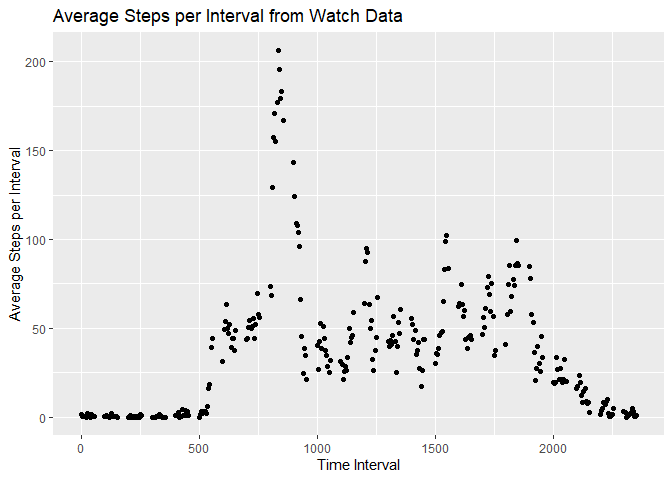
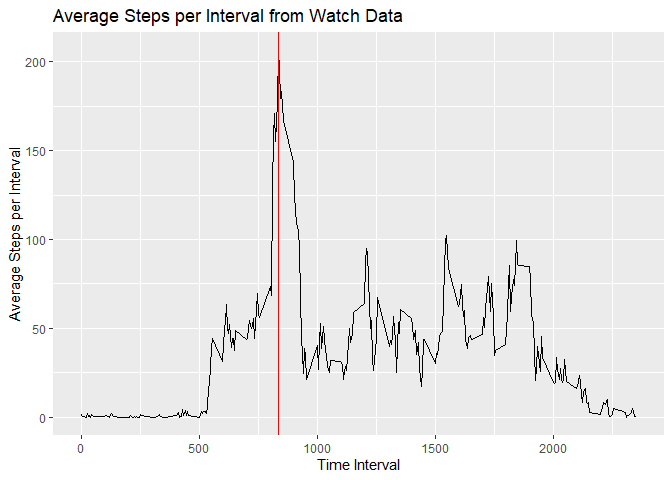
all works - ready to submit

diff --git a/PA1_template.html b/PA1_template.html
@@ -400,12 +400,12 @@ str(activity)</code></pre>
   #remove NA
   stepdata &lt;- activity[!is.na(activity$steps),]
   #sum step data by day
-     newstep &lt;- aggregate(steps ~ date, data = stepdata, sum)
-     newstepmean &lt;- sprintf(&quot;%.4f&quot;,mean(newstep$steps))
-     newstepmedian &lt;- median(newstep$steps)
+     newstepday &lt;- aggregate(steps ~ date, data = stepdata, sum)
+     newstepmean &lt;- sprintf(&quot;%.4f&quot;,mean(newstepday$steps))
+     newstepmedian &lt;- median(newstepday$steps)
      
      #plot
-     ggplot(data = newstep, aes(x = steps)) + geom_histogram() +
+     ggplot(data = newstepday, aes(x = steps)) + geom_histogram() +
        labs(title = &quot;Distribution of Total Steps per Day from Watch Data&quot;) +
        xlab(&quot;Total Steps per Day&quot;) +
        ylab(&quot;Frequency of step count&quot;)</code></pre>
@@ -421,29 +421,75 @@ str(activity)</code></pre>
 and the average number of steps taken averaged across all days (y-axis).
 Demonstrate which interval, on average across all days in the dataset,
 contains the maximum number of steps.</p>
-<pre class="r"><code>  #load data into function
-  activity &lt;- read.csv(&quot;~\\R\\datasciencecoursera\\RepData_PeerAssessment1\\activity.csv&quot;)
-  #remove NA
-  stepdata &lt;- activity[!is.na(activity$steps),]
-  #sum step data by day
-  newstep &lt;- aggregate(steps ~ interval, data = stepdata, mean)
-  maxsteps &lt;- newstep$interval[newstep$steps == max(newstep$steps)]
+<pre class="r"><code>  #sum step data by day
+  meanstepinterval &lt;- aggregate(steps ~ interval, data = stepdata, mean)
+ 
+  maxsteps &lt;- meanstepinterval$interval[meanstepinterval$steps == max(meanstepinterval$steps)]
   
-  #plot
-  ggplot(data = newstep) + geom_point(mapping= aes(x = interval, y = steps)) +
+#  plot(meanstepinterval$interval,meanstepinterval$steps, type = &quot;l&quot;, main = &quot;Average Steps per Interval Through Day&quot;, 
+##     xlab = &quot;Interval&quot;, ylab = &quot;Average Step Count&quot;)
+#  abline(v = maxsteps, col = &quot;red&quot;, lty = 4)
+  ggplot(data = meanstepinterval) + geom_line(mapping= aes(x = interval, y = steps)) +
     labs(title = &quot;Average Steps per Interval from Watch Data&quot;) +
     xlab(&quot;Time Interval&quot;) +
-    ylab(&quot;Average Steps per Interval&quot;)</code></pre>
[1 lines of base64/hex data omitted]
+    ylab(&quot;Average Steps per Interval&quot;) +
+    geom_vline(mapping = aes(xintercept = maxsteps), col = &quot;red&quot;)</code></pre>
[1 lines of base64/hex data omitted]
 <p>The time interval where the participant mean step count is the
-highest is 835.</p>
+highest is 835, denoted by the <span class="math inline">\(\color{red}{\text{red}}\)</span> line.</p>
 </div>
 <div id="imputing-missing-values" class="section level2">
 <h2>Imputing missing values</h2>
+<pre class="r"><code>#calculate number of missing values
+  missing_steps &lt;- sum(is.na(activity$steps))
+
+# calculate mean steps for each interval
+  meanstepsperinterval &lt;- activity %&gt;%
+    group_by(interval) %&gt;%
+   summarize(meansteps = mean(steps, na.rm = TRUE))
+ 
+
+  #impute missing data
+  imputesteps &lt;- activity %&gt;%
+    left_join(meanstepsperinterval, by = &quot;interval&quot;) %&gt;%
+    mutate(steps = ifelse(is.na(steps),meansteps, steps)) %&gt;%
+    select(-meansteps)
+  
+  #calculate totals after imputing data  
+  totalstepsall &lt;- imputesteps %&gt;%
+      group_by(date) %&gt;%
+      summarize(totalsteps = sum(steps))
+                 
+  
+  # histogram of imputed data
+       ggplot(data = totalstepsall, aes(x = totalsteps)) + geom_histogram() +
+         labs(title = &quot;Distribution of Total Steps per Day from Watch Data after Imputation&quot;) +
+         xlab(&quot;Total Steps per Day&quot;) +
+         ylab(&quot;Frequency of step count&quot;)</code></pre>
+<pre><code>## `stat_bin()` using `bins = 30`. Pick better value `binwidth`.</code></pre>
[1 lines of base64/hex data omitted]
+<p>There were 2304 missing values in this data set.</p>
 </div>
 <div id="are-there-differences-in-activity-patterns-between-weekdays-and-weekends" class="section level2">
 <h2>Are there differences in activity patterns between weekdays and
 weekends?</h2>
+<pre class="r"><code> # create a new variable for type of day
+  imputesteps$daytype &lt;- ifelse(weekdays(as.Date(imputesteps$date)) %in% c(&quot;Saturday&quot;, &quot;Sunday&quot;), &quot;weekend&quot;, &quot;weekday&quot;)
+ # calculate steps for intervals grouped by daytype and interval
+  avedaysteps &lt;- imputesteps %&gt;%
+      group_by(interval, daytype) %&gt;%
+        summarize(meansteps = mean(steps))</code></pre>
+<pre><code>## `summarise()` has grouped output by &#39;interval&#39;. You can override using the
+## `.groups` argument.</code></pre>
+<pre class="r"><code>  # create the plot
+  ggplot(avedaysteps, aes(x = interval, y = meansteps, color = daytype)) +
+      geom_line() +
+      facet_wrap(~daytype, ncol = 1) +
+      labs(title = &quot;Average Activity Patterns Comparing Weekend and Weekday&quot;, x = &quot;five-minute intervals&quot;,
+           y = &quot;Average Steps&quot;) </code></pre>
[1 lines of base64/hex data omitted]
+<p>It appears as though the participants are more active across more of
+the day during weekends than on weekdays.</p>
 </div>
 
 

diff --git a/PA1_template.md b/PA1_template.md
@@ -7,6 +7,7 @@ output:
 
 Loading Libraries and changing default
 
+
 ``` r
  # This accounts for a limitation in RStudio
   options("max.print" = 9999999)
@@ -79,12 +80,12 @@ summary(activity)
   #remove NA
   stepdata <- activity[!is.na(activity$steps),]
   #sum step data by day
-     newstep <- aggregate(steps ~ date, data = stepdata, sum)
-     newstepmean <- sprintf("%.4f",mean(newstep$steps))
-     newstepmedian <- median(newstep$steps)
+     newstepday <- aggregate(steps ~ date, data = stepdata, sum)
+     newstepmean <- sprintf("%.4f",mean(newstepday$steps))
+     newstepmedian <- median(newstepday$steps)
      
      #plot
-     ggplot(data = newstep, aes(x = steps)) + geom_histogram() +
+     ggplot(data = newstepday, aes(x = steps)) + geom_histogram() +
        labs(title = "Distribution of Total Steps per Day from Watch Data") +
        xlab("Total Steps per Day") +
        ylab("Frequency of step count")
@@ -111,28 +112,95 @@ Demonstrate which interval, on average across all days in the dataset, contains 
 
 
 ``` r
-  #load data into function
-  activity <- read.csv("~\\R\\datasciencecoursera\\RepData_PeerAssessment1\\activity.csv")
-  #remove NA
-  stepdata <- activity[!is.na(activity$steps),]
   #sum step data by day
-  newstep <- aggregate(steps ~ interval, data = stepdata, mean)
-  maxsteps <- newstep$interval[newstep$steps == max(newstep$steps)]
+  meanstepinterval <- aggregate(steps ~ interval, data = stepdata, mean)
+ 
+  maxsteps <- meanstepinterval$interval[meanstepinterval$steps == max(meanstepinterval$steps)]
   
-  #plot
-  ggplot(data = newstep) + geom_point(mapping= aes(x = interval, y = steps)) +
+#  plot(meanstepinterval$interval,meanstepinterval$steps, type = "l", main = "Average Steps per Interval Through Day", 
+##     xlab = "Interval", ylab = "Average Step Count")
+#  abline(v = maxsteps, col = "red", lty = 4)
+  ggplot(data = meanstepinterval) + geom_line(mapping= aes(x = interval, y = steps)) +
     labs(title = "Average Steps per Interval from Watch Data") +
     xlab("Time Interval") +
-    ylab("Average Steps per Interval")
+    ylab("Average Steps per Interval") +
+    geom_vline(mapping = aes(xintercept = maxsteps), col = "red")
 ```
 
 ![](PA1_template_files/figure-html/steppattern-1.png)<!-- -->
   
-  The time interval where the participant mean step count is the highest is 835.
+ 
+  The time interval where the participant mean step count is the highest is 835, denoted by the $\color{red}{\text{red}}$ line.
 
 
 ## Imputing missing values
 
+``` r
+#calculate number of missing values
+  missing_steps <- sum(is.na(activity$steps))
 
+# calculate mean steps for each interval
+  meanstepsperinterval <- activity %>%
+    group_by(interval) %>%
+   summarize(meansteps = mean(steps, na.rm = TRUE))
+ 
+
+  #impute missing data
+  imputesteps <- activity %>%
+    left_join(meanstepsperinterval, by = "interval") %>%
+    mutate(steps = ifelse(is.na(steps),meansteps, steps)) %>%
+    select(-meansteps)
+  
+  #calculate totals after imputing data  
+  totalstepsall <- imputesteps %>%
+      group_by(date) %>%
+      summarize(totalsteps = sum(steps))
+                 
+  
+  # histogram of imputed data
+       ggplot(data = totalstepsall, aes(x = totalsteps)) + geom_histogram() +
+         labs(title = "Distribution of Total Steps per Day from Watch Data after Imputation") +
+         xlab("Total Steps per Day") +
+         ylab("Frequency of step count")
+```
+
+```
+## `stat_bin()` using `bins = 30`. Pick better value `binwidth`.
+```
+
+![](PA1_template_files/figure-html/unnamed-chunk-3-1.png)<!-- -->
+
+There were 2304 missing values in this data set.
 
 ## Are there differences in activity patterns between weekdays and weekends?
+
+
+``` r
+ # create a new variable for type of day
+  imputesteps$daytype <- ifelse(weekdays(as.Date(imputesteps$date)) %in% c("Saturday", "Sunday"), "weekend", "weekday")
+ # calculate steps for intervals grouped by daytype and interval
+  avedaysteps <- imputesteps %>%
+      group_by(interval, daytype) %>%
+        summarize(meansteps = mean(steps))
+```
+
+```
+## `summarise()` has grouped output by 'interval'. You can override using the
+## `.groups` argument.
+```
+
+``` r
+  # create the plot
+  ggplot(avedaysteps, aes(x = interval, y = meansteps, color = daytype)) +
+      geom_line() +
+      facet_wrap(~daytype, ncol = 1) +
+      labs(title = "Average Activity Patterns Comparing Weekend and Weekday", x = "five-minute intervals",
+           y = "Average Steps") 
+```
+
+![](PA1_template_files/figure-html/partofweek-1.png)<!-- -->
+
+It appears as though the participants are more active across more of the day during weekends than on weekdays.
+
+
+ 
